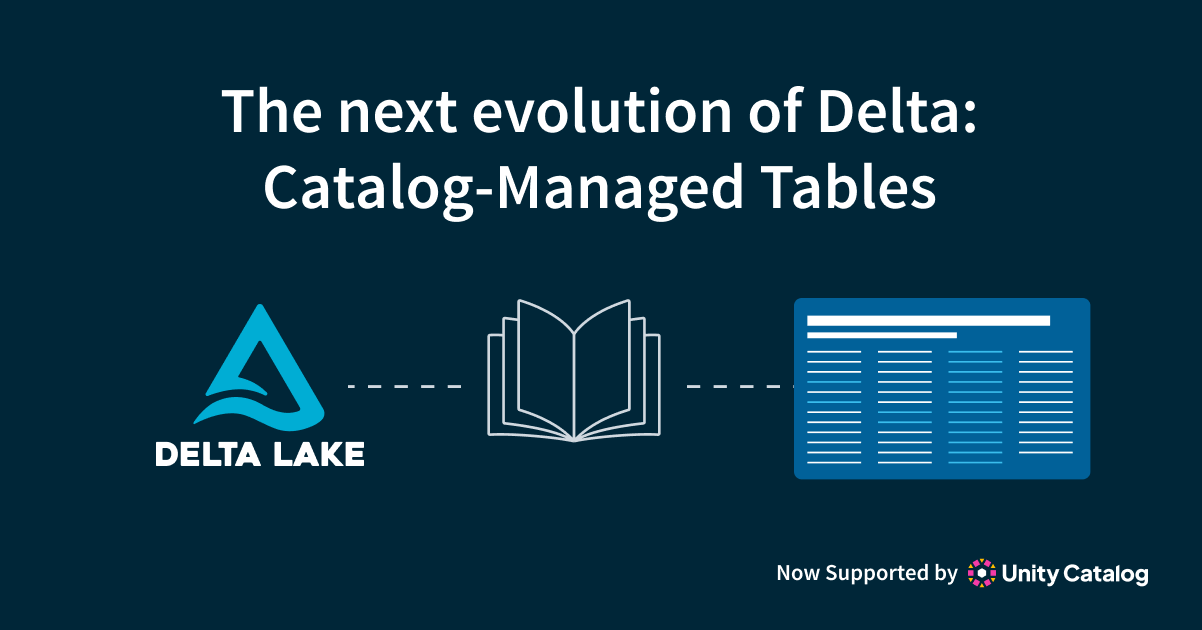
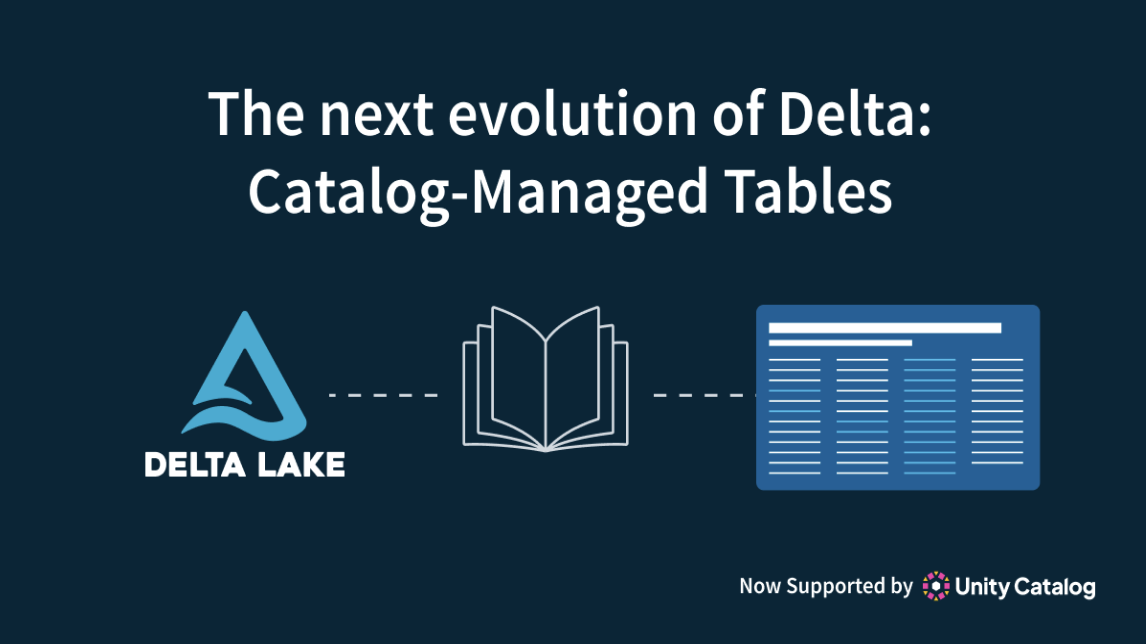
Blog 4.2 release (#595)
* added the delta 4.2. release blog

* resized all thumbnails to match for last 4 releases

PR reviewed via Zheng and Alex

---------

diff --git a/src/content/blog/2026-04-17-delta-4-2-released/index.md b/src/content/blog/2026-04-17-delta-4-2-released/index.md
@@ -1,0 +1,146 @@
+---
+title: Delta 4.2.0 Released
+description: The Delta Kernel continues to drive the future of Delta Lake. With the 4.2 release, we've further eliminated engine inconsistencies and feature fragmentation by embedding the kernel where it matters most - right in the heart of our engine connectors. The kernel ensures strict transactional consistency and peak performance regardless of which engine reads or writes your data. Along that line, this release includes a brand new experimental Apache Flink connector built on the Delta Kernel aimed at providing expanded support for catalog-managed tables. This new connector supports reading and writing catalog-managed tables via Flink SQL...
+thumbnail: ./thumbnail.png
+author:
+  - scott-haines
+  - zheng-hu
+  - alex-jiang
+publishedAt: 2026-04-27
+---
+
+The Delta Lake 4 journey has marked a shift from the file system to the catalog. Each release has deepened support for
+[catalog-managed tables](https://delta.io/blog/2026-02-02-delta-catalog-managed-tables/) and extended that design
+philosophy across the Delta ecosystem. Delta Lake 4.2 advances on two fronts: Kernel expands outward with a new Flink
+connector, streaming improvements, and broader data type support. Catalog-managed tables also mature with atomic
+operations, schema evolution from SQL, and synchronous UniForm.
+
+## Expanding the Delta Ecosystem with Delta Kernel
+
+Delta Kernel has been the native and general Delta API for all engines to integrate with Delta Table, so that all
+engines will have the same and consistent behavior and semantics while interacting with Delta tables.
+
+### New kernel-based Apache Flink Connector
+
+In 4.2, Delta-Kernel powers a brand-new Apache Flink connector with catalog-managed table support from day one. This
+connector replaces the legacy Flink connector that was deprecated back in 4.0 alongside Delta Standalone.
+
+The new connector supports transactionally consistent writes coordinated through the catalog, with exactly-once
+semantics backed by a Flink Sink Writer and Committer. The connector is experimental today, and we'll be marching
+toward stability in subsequent releases.
+
+Let's see what the new connector looks like in practice. Here, FlinkSQL is creating a new unity catalog-managed table
+with clickstream data and writing to it:
+
+```sql
+-- Create the clickstream landing table as a Unity Catalog managed table
+CREATE TEMPORARY TABLE clickstream_raw (
+  event_date STRING,
+  event_type STRING,
+  user_id STRING
+) WITH (
+  'connector' = 'delta',
+  'table_name' = 'clickstream_raw',
+  'unitycatalog.name' = 'prod',
+  'unitycatalog.endpoint' = '<endpoint>',
+  'unitycatalog.token' = '<token>',
+  'partitions' = 'event_date',
+  'uid' = 'clickstream-ingest'
+);
+
+-- Stream events into the table via Flink SQL
+INSERT INTO clickstream_raw VALUES
+  ('2026-04-20', 'click',    'user_1'),
+  ('2026-04-20', 'purchase', 'user_2'),
+  ('2026-04-22', 'click',    'user_4');
+```
+
+### Schema Evolution
+
+Schema evolution also gets smoother. <span style="color:#d63384">INSERT INTO ... BY NAME</span> now supports automatic
+schema evolution when autoMerge is enabled, adding new columns to the table schema as part of the commit. For SQL-first
+teams, this removes one of the last reasons to drop into a DataFrame notebook just to evolve a schema. And a new table
+property (<span style="color:#d63384">delta.stats.skipping.forceOptimizeStatsCollection</span>) forces per-file stats
+collection during query planning, so data skipping works on newly-evolved columns immediately — no
+<span style="color:#d63384">OPTIMIZE</span> required.
+
+For example, let's say a clickstream has been missing <span style="color:#d63384">device_type</span> — the kind of
+surface (mobile, web, tablet) an event was recorded from. The upstream producer has already started emitting the new
+field into prod.consumer.clickstream_raw, and we want to fold it into the main table without a preliminary schema
+change.
+
+```sql
+SET spark.databricks.delta.schema.autoMerge.enabled = true;
+
+INSERT INTO prod.consumer.clickstream BY NAME
+SELECT event_date, event_type, user_id, device_type
+FROM prod.consumer.clickstream_raw
+WHERE event_date = '2026-04-23';
+```
+
+<br/>
+<span style="color:#d63384">device_type</span> is added to the table schema as part of the commit. Existing rows carry 
+NULL for the new column, and every downstream reader continues to work without intervention. For SQL-first teams, 
+this removes one of the last reasons to drop into a DataFrame notebook just to get a pipeline unstuck.
+
+### Data Type Support
+
+In Delta Kernel, we add support for <span style="color:#d63384">geospatial, collation, and variant types</span>:
+
+- **Geospatial** support lands in Kernel for the first time: native reading and writing of geometry and geography columns, along with bounding-box data skipping to accelerate spatial queries at the protocol level.
+- **Collation** — locale-aware and case-insensitive string comparison at the column level — gains protocol-level support in Kernel, bringing Kernel-powered connectors in line with Spark's existing capabilities.
+- **Variant** lets you store semi-structured data as a single column and query into it at read time. Variant shredding — which decomposes frequently accessed fields into separate columns for faster reads while preserving the full Variant payload — graduates from preview. The Spark connector also gains full schema conversion for Variant columns.
+
+To put this in context, here's how a clickstream pipeline can push event-specific properties into a single Variant
+payload:
+
+```sql
+CREATE TABLE prod.consumer.clickstream_v2 (
+  event_date DATE,
+  event_type STRING,
+  user_id STRING,
+  device_type STRING,
+  properties VARIANT
+)
+USING DELTA
+PARTITIONED BY (event_date);
+
+INSERT INTO prod.consumer.clickstream_v2 BY NAME
+SELECT event_date, event_type, user_id, device_type,
+       parse_json(raw_properties) AS properties
+FROM prod.consumer.clickstream_raw WHERE event_date = '2026-04-24';
+```
+
+## Strengthening Catalog Managed Tables
+
+Designing Delta Lake around the catalog creates a shared foundation between the two leading open table formats in the
+Lakehouse ecosystem: Apache Iceberg and Delta Lake. A centralized catalog can vend credentials, enforce governance, and
+connect multiple compute engines — bringing the two formats closer together with every release. 4.2 continues that
+work, and catalog-managed tables continue to mature.
+
+### Atomic RTAS and Dynamic Partition Overwrite
+
+One of the most significant reliability upgrades in 4.2 is fully atomic execution of REPLACE TABLE AS SELECT (RTAS) and
+Dynamic Partition Overwrite (DPO) on catalog-managed tables. Previously, these operations lacked strict atomicity in
+certain managed environments, leaving the door open for partial failures to corrupt table state. In 4.2, both execute
+as single atomic commits — if an operation fails midway, the table state remains completely untouched. Readers never
+see a half-applied state.
+
+### Synchronous UniForm
+
+Catalog-managed tables also unlock a long-awaited improvement in Delta UniForm. Iceberg metadata generation moves from
+asynchronous post-commit hooks to synchronous generation at commit time. The result is cleaner — Iceberg reads land
+immediately, not after an async hook eventually fires.
+
+Additionally, **support for the legacy Hive Metastore (HMS) in UniForm is deprecated**. HMS has no concept of
+catalog-managed tables, and synchronous metadata generation requires a catalog that can broker commits.
+
+## Conclusion
+
+Delta 4.2 advances on two fronts. Kernel powers more of the ecosystem with a new Flink connector, broader streaming
+support, and Variant, Collation, and geospatial capabilities. At the same time, catalog-managed tables get stronger —
+atomic RTAS and DPO, synchronous UniForm, and schema evolution from SQL. Together, they move Delta Lake closer to a
+future where the catalog centralizes and Kernel connects.
+
+For the complete list of changes, fixes, and contributor acknowledgments, see the
+[Delta 4.2.0 release notes on GitHub](https://github.com/delta-io/delta/releases/tag/v4.2.0).

diff --git a/src/content/profiles/alex-jiang/index.md b/src/content/profiles/alex-jiang/index.md
@@ -1,0 +1,6 @@
+---
+name: Alex Jiang
+photo: ./alex-jiang.jpg
+role: Associate Product Manager
+linkedin: https://www.linkedin.com/in/alex-jiang-831ab2200/
+---

diff --git a/src/content/profiles/zheng-hu/index.md b/src/content/profiles/zheng-hu/index.md
@@ -1,4 +1,6 @@
 ---
 name: Zheng Hu
 role: Staff Software Engineer
+photo: ./zheng-hu.png
+linkedin: https://www.linkedin.com/in/openinx/
 ---
